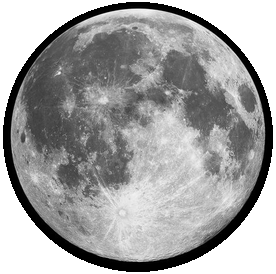
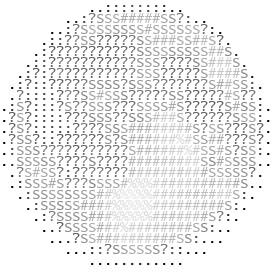
Convert all planets into typography ASCII art using python script

diff --git a/ascii_planets.py b/ascii_planets.py
@@ -1,0 +1,56 @@
+import math
+from PIL import Image, ImageDraw, ImageFont
+
+def image_to_ascii(filepath, font_path="C:\\Windows\\Fonts\\lucon.ttf", font_size=14):
+    try:
+        img = Image.open(filepath).convert("RGBA")
+    except Exception as e:
+        print(f"Error opening {filepath}: {e}")
+        return
+
+    # Load font
+    try:
+        font = ImageFont.truetype(font_path, font_size)
+    except:
+        font = ImageFont.load_default()
+
+    # Monospace dimensions roughly
+    char_w = int(font_size * 0.6)
+    char_h = int(font_size * 0.8)
+
+    w, h = img.size
+    cols = int(w / char_w)
+    rows = int(h / char_h)
+
+    if cols == 0 or rows == 0:
+        return
+
+    small_img = img.resize((cols, rows), Image.Resampling.BILINEAR)
+    pixels = small_img.load()
+
+    # Characters ordered by density
+    chars = [".", ":", "?", "S", "#", "%", "@"]
+
+    out_img = Image.new("RGBA", (w, h), (0, 0, 0, 0))
+    draw = ImageDraw.Draw(out_img)
+
+    for y in range(rows):
+        for x in range(cols):
+            r, g, b, a = pixels[x, y]
+            if a < 50:
+                continue
+                
+            brightness = (0.299 * r + 0.587 * g + 0.114 * b) / 255.0
+            char_idx = int(brightness * (len(chars) - 1))
+            
+            char = chars[char_idx]
+            draw.text((x * char_w, y * char_h), char, font=font, fill=(r, g, b, 255))
+
+    out_img.save(filepath)
+    print(f"ASCII-fied {filepath}")
+
+for i in range(1, 6):
+    image_to_ascii(f"img/planet{i}.png")
+    image_to_ascii(f"dist/img/planet{i}.png")
+
+print("Done")
